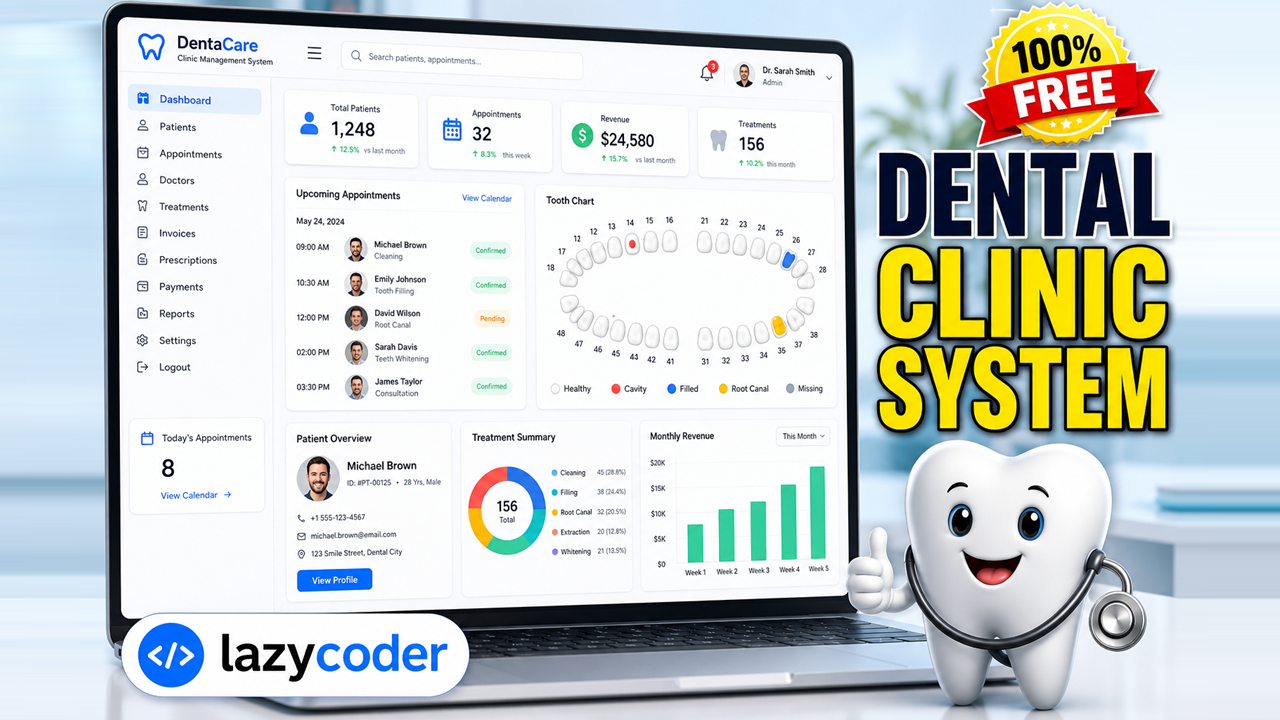
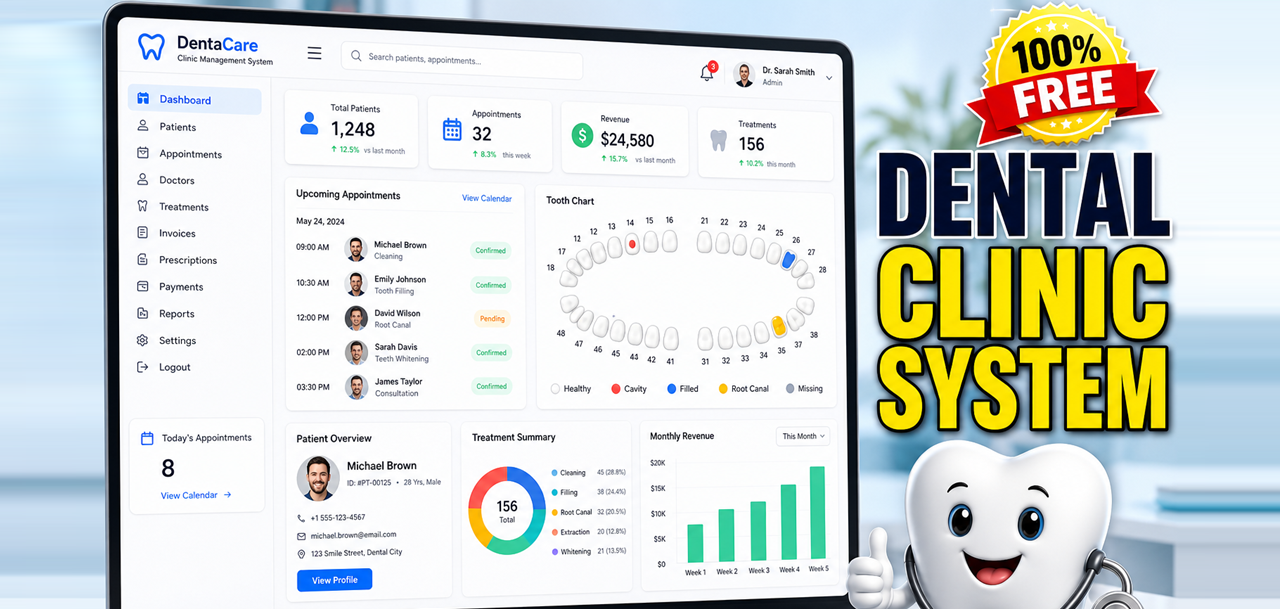
Update project and dependencies

diff --git a/templates/public_base.html b/templates/public_base.html
@@ -72,7 +72,7 @@
       </div>
     </div>
     <hr class="border-secondary my-4">
-    <p class="small text-center text-white-50 mb-0">© {% now "Y" %} DentaCare · Built with Django · Demo project by <span class="text-white">lazycoder</span></p>
+    <p class="small text-center text-white-50 mb-0">© {% now "Y" %} DentaCare · Built with Django · Demo project by <span class="text-white">Aayan Makandar</span></p>
   </div>
 </footer>
 {% endblock %}

diff --git a/README.md b/README.md
@@ -6,7 +6,7 @@ A comprehensive, production-quality **Dental Clinic Management System** built wi
 
 It also ships with a suite of **offline, rule-based AI tools** (symptom checker, chatbot, cost estimator, no‑show risk) that require **no API keys** and no paid services.
 
-> Built for the **lazycoder** YouTube channel as a full, end-to-end reference project.
+> Built for the **Aayan Makandar** YouTube channel as a full, end-to-end reference project.
 
 ---
 
@@ -205,4 +205,4 @@ This project is released under the **MIT License**. It is provided for education
 
 ---
 
-Made with care for **lazycoder** — happy coding! 🦷
+Made with care for **Aayan Makandar** — happy coding! 🦷
